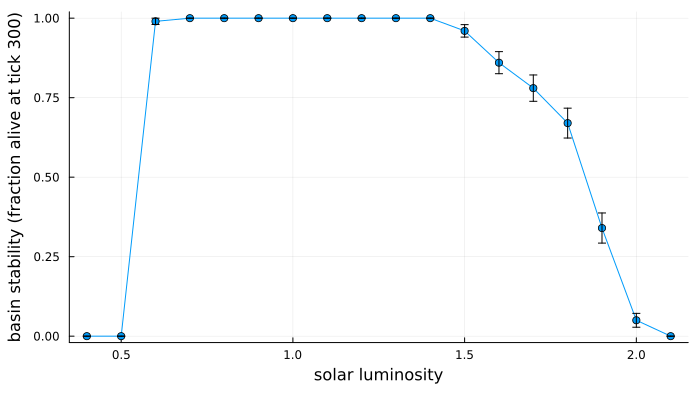
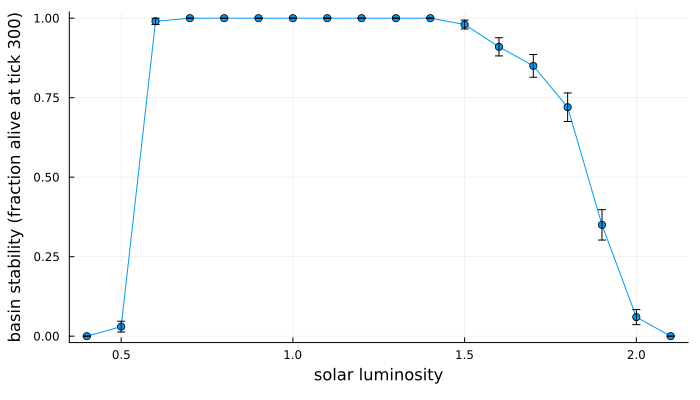
Resilience vignette: independent noise per start (DynamicalResilience 0.3.1)
DynamicalResilience 0.3.1's basin_stability gives each trajectory its own model
seed by default (noise = :independent); before, all trajectories shared
prob.seed. Update the Manifest to 0.3.1, test that an unperturbed start repeats
the plain run only under noise = :common, and re-run and re-render the
vignette. Daisyworld basins change slightly (0.03 survive at L = 0.5; 0.98 at
1.5, 0.72 at 1.8, 0.06 at 2.0) and Wolf-Sheep coexistence is 39% +/- 5%
(was 41%); early warnings and recovery are unchanged.

diff --git a/vignettes/resilience/resilience.html b/vignettes/resilience/resilience.html
@@ -172,11 +172,11 @@ pre > code.sourceCode > span > a:first-child::before { text-decoration: underlin
 </figure>
 </div>
 <ul>
-<li><strong>Below 0.6 every start freezes.</strong> Even a planet half covered in black daisies cannot warm itself enough at a luminosity of 0.4–0.5.</li>
+<li><strong>Below 0.6 almost every start freezes.</strong> Even a planet half covered in black daisies rarely warms itself enough: none survive at a luminosity of 0.4, and 0.03 at 0.5.</li>
 <li><strong>From 0.6 to 1.4 every start survives</strong> (0.99 at 0.6).</li>
-<li><strong>Above 1.4 the basin shrinks steadily:</strong> 0.96 at 1.5, 0.86 at 1.6, 0.67 at 1.8, 0.34 at 1.9, 0.05 at 2.0 and none at 2.1.</li>
+<li><strong>Above 1.4 the basin shrinks steadily:</strong> 0.98 at 1.5, 0.91 at 1.6, 0.72 at 1.8, 0.35 at 1.9, 0.06 at 2.0 and none at 2.1.</li>
 </ul>
-<p>On the hot side, whether the daisies survive depends more and more on where the planet starts. Each luminosity uses one model seed, so the trajectories share the model’s random numbers and differ only in their starting covers.</p>
+<p>On the hot side, whether the daisies survive depends more and more on where the planet starts. Each start also has its own model noise: <code>basin_stability</code> gives every trajectory its own model seed, drawn from its <code>seed</code> argument. So the fraction reflects both the starting covers and the model’s chance events. With <code>noise = :common</code> all trajectories share one model seed and differ only in their starting covers.</p>
 </section>
 <section id="daisyworld-warnings-before-the-collapse" class="level2">
 <h2 class="anchored" data-anchor-id="daisyworld-warnings-before-the-collapse">Daisyworld: warnings before the collapse</h2>
@@ -267,10 +267,10 @@ pre > code.sourceCode > span > a:first-child::before { text-decoration: underlin
 <h2 class="anchored" data-anchor-id="wolfsheep-is-coexistence-a-basin">Wolf–Sheep: is coexistence a basin?</h2>
 <p>Here the starting numbers of sheep (0–300) and wolves (0–150) are drawn at random. A run counts as coexisting if both species are still present at tick 1000.</p>
 <ul>
-<li><strong>With grass:</strong> 41% ± 5% of starts coexist.</li>
+<li><strong>With grass:</strong> 39% ± 5% of starts coexist.</li>
 <li><strong>Without grass:</strong> none do.</li>
 </ul>
-<p>Coexistence here is a property of only part of the state space: most random starts lose one species within 1000 ticks, through the large predator–prey oscillations that the default parameters produce. As in the Daisyworld basin, the trajectories share the model seed.</p>
+<p>Coexistence here is a property of only part of the state space: most random starts lose one species within 1000 ticks, through the large predator–prey oscillations that the default parameters produce. As in the Daisyworld basin, each start has its own model seed.</p>
 </section>
 <section id="caveats" class="level2">
 <h2 class="anchored" data-anchor-id="caveats">Caveats</h2>

diff --git a/vignettes/resilience/resilience.md b/vignettes/resilience/resilience.md
@@ -75,16 +75,19 @@ basin_stability(DaisyworldProblem(DaisyworldParams(solar_luminosity = L); u0 = [
 <img src="fig_basin.png" style="width:100.0%"
 alt="Basin stability of a living Daisyworld against solar luminosity" />
 
-- **Below 0.6 every start freezes.** Even a planet half covered in black
-  daisies cannot warm itself enough at a luminosity of 0.4–0.5.
+- **Below 0.6 almost every start freezes.** Even a planet half covered
+  in black daisies rarely warms itself enough: none survive at a
+  luminosity of 0.4, and 0.03 at 0.5.
 - **From 0.6 to 1.4 every start survives** (0.99 at 0.6).
-- **Above 1.4 the basin shrinks steadily:** 0.96 at 1.5, 0.86 at 1.6,
-  0.67 at 1.8, 0.34 at 1.9, 0.05 at 2.0 and none at 2.1.
+- **Above 1.4 the basin shrinks steadily:** 0.98 at 1.5, 0.91 at 1.6,
+  0.72 at 1.8, 0.35 at 1.9, 0.06 at 2.0 and none at 2.1.
 
 On the hot side, whether the daisies survive depends more and more on
-where the planet starts. Each luminosity uses one model seed, so the
-trajectories share the model’s random numbers and differ only in their
-starting covers.
+where the planet starts. Each start also has its own model noise:
+`basin_stability` gives every trajectory its own model seed, drawn from
+its `seed` argument. So the fraction reflects both the starting covers
+and the model’s chance events. With `noise = :common` all trajectories
+share one model seed and differ only in their starting covers.
 
 ## Daisyworld: warnings before the collapse
 
@@ -178,13 +181,13 @@ Here the starting numbers of sheep (0–300) and wolves (0–150) are drawn
 at random. A run counts as coexisting if both species are still present
 at tick 1000.
 
-- **With grass:** 41% ± 5% of starts coexist.
+- **With grass:** 39% ± 5% of starts coexist.
 - **Without grass:** none do.
 
 Coexistence here is a property of only part of the state space: most
 random starts lose one species within 1000 ticks, through the large
 predator–prey oscillations that the default parameters produce. As in
-the Daisyworld basin, the trajectories share the model seed.
+the Daisyworld basin, each start has its own model seed.
 
 ## Caveats
 
